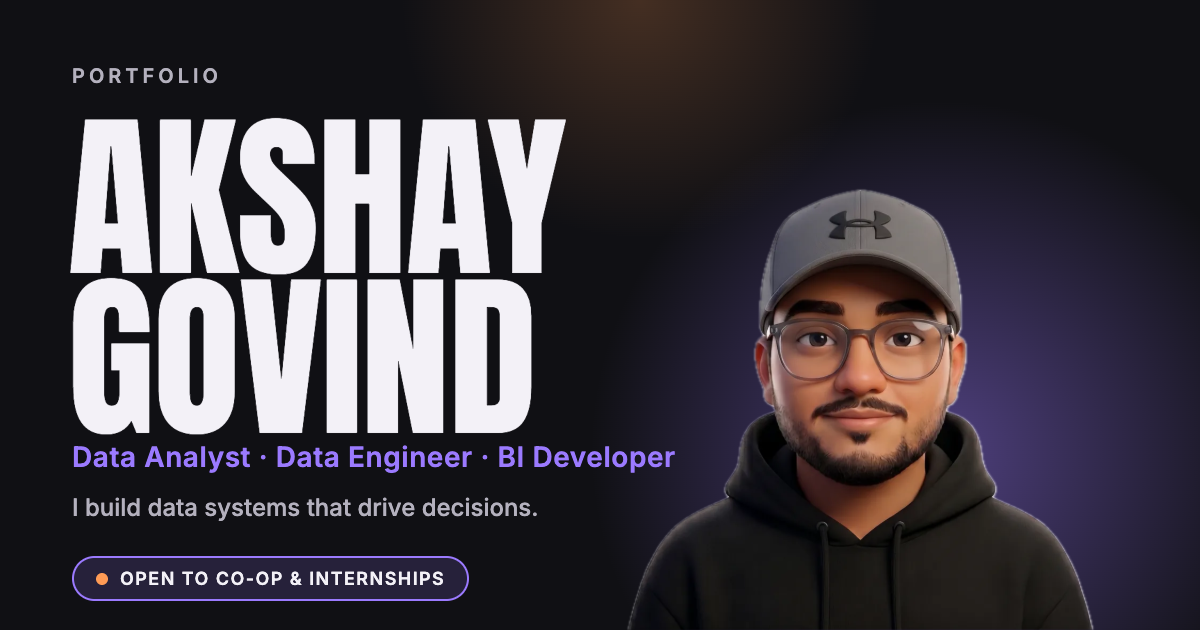
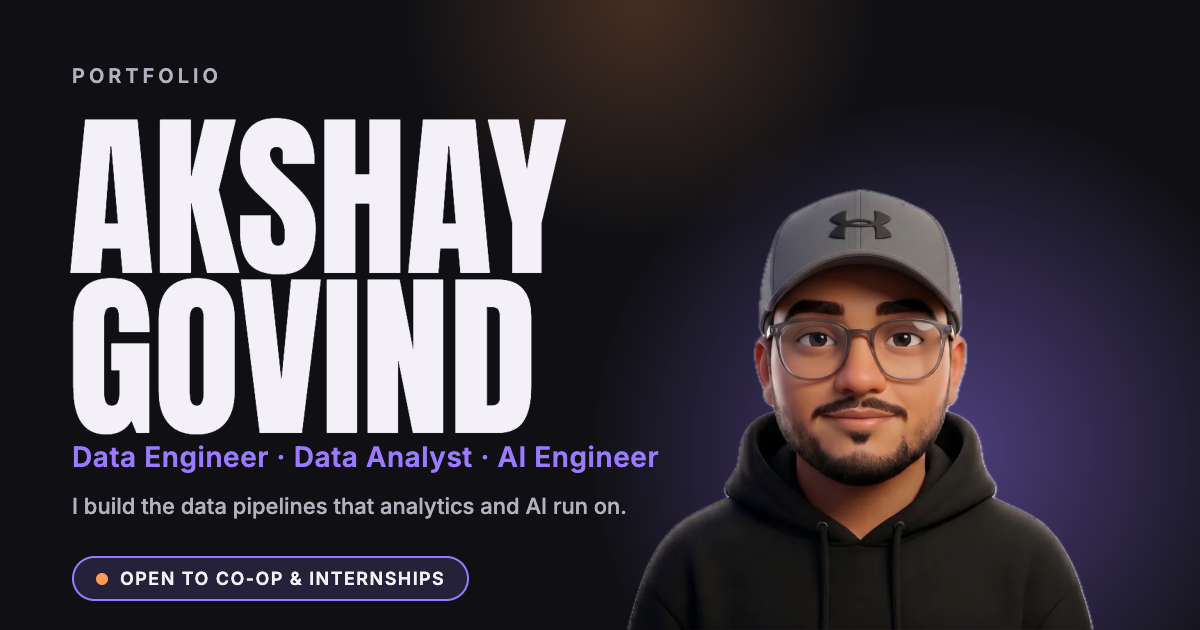
Positioning: Data Engineer, Data Analyst & AI Engineer
- New titles, description, hero roles/subheadline, og.png
- AI Engineering skills group; marquee, education coursework line
- JobPulse/FoodLens facts (verified in the repos)
- Contact: Copy email button, availability line (location until dates are set)
- Resume "Updated Nov 2026" note
- New About pitch and seeking line; phone hero spacing fixes

Changed region(s): [[0.1233, 0.6937, 0.555, 0.754], [0.0617, 0.7841, 0.5242, 0.8444]]

diff --git a/config/site.ts b/config/site.ts
@@ -48,14 +48,14 @@ export type SkillGroup = { category: string; skills: string[] };
 
 export const site = {
   name: "Akshay Govind",
-  title: "Data Analyst & Data Engineer",
+  title: "Data Engineer, Data Analyst & AI Engineer",
   /** Used for the meta description, Open Graph / Twitter cards and the web manifest. */
   description:
-    "Data Analyst & Data Engineer building data pipelines, SQL analytics and BI dashboards. MS Information Systems at Northeastern University, open to co-op and internship roles.",
+    "Data Engineer, Data Analyst & AI Engineer building the data pipelines analytics and AI run on. MS Information Systems at Northeastern, open to co-ops.",
   /** Theme colour for the browser UI, the web manifest and splash screens. */
   themeColor: "#101014",
   pitch:
-    "I build reliable data pipelines and clear analytics, from raw ingestion to dashboards that decision-makers trust.",
+    "I make messy data reliable enough for dashboards and for LLMs: tested, documented and monitored.",
 
   /** Badges in the scrolling tools marquee under the hero. */
   tools: [
@@ -69,13 +69,15 @@ export const site = {
     "dbt",
     "AWS S3",
     "PostgreSQL",
+    "OpenAI Agents SDK",
+    "LLM extraction",
   ],
 
   hero: {
     label: "AKSHAY GOVIND / PORTFOLIO",
     badge: "OPEN TO CO-OP & INTERNSHIPS",
-    subheadline: "I build data systems that drive decisions.",
-    roles: "Data Analyst · Data Engineer · BI Developer",
+    subheadline: "I build the data pipelines that analytics and AI run on.",
+    roles: "Data Engineer · Data Analyst · AI Engineer",
     credentials:
       "MS Information Systems @ Northeastern University · Dec\u00A02027 · 2+ yrs BI experience",
   },
@@ -114,6 +116,18 @@ export const site = {
     linkedin: "https://www.linkedin.com/in/akshaygovind06/",
     email: "govind.ak@northeastern.edu",
     resume: "/resume.pdf", // file lives at public/resume.pdf
+    /** Shown under the Download resume button (hidden if empty). The PDF was created 2026-11-17. */
+    resumeUpdated: "Nov 2026",
+  },
+
+  /**
+   * Availability line under the Contact heading: "<dates> · <location>".
+   * While `dates` is empty only the location shows ("Boston or remote"), so no placeholder
+   * ever appears on the site. Fill `dates` in when you have them, e.g. "Jan–Jun 2027".
+   */
+  availability: {
+    dates: "",
+    location: "Boston or remote",
   },
 
   about: {
@@ -124,6 +138,7 @@ export const site = {
         degree: "MS, Information Systems",
         school: "Northeastern University",
         when: "Expected Dec 2027",
+        coursework: "Theory and Practical Applications of AI Generative Modeling (CSYE 7380)",
       },
       {
         degree: "B.E., Computer Engineering",
@@ -132,7 +147,7 @@ export const site = {
       },
     ],
     experience: "2+ years as a Business Intelligence Analyst",
-    seeking: "Seeking Data Analyst / Data Engineer / BI co-op roles.",
+    seeking: "Seeking Data Engineer, Data Analyst and AI Engineer co-op roles.",
   },
 
   projects: [
@@ -141,7 +156,7 @@ export const site = {
       summary:
         "Unified 387K+ food inspection records from two structurally different city datasets using a Medallion architecture, data quality validation and Kimball dimensional modeling.",
       stats: [{ value: "1.18M", label: "fact violation rows" }],
-      facts: ["4 Power BI dashboards"],
+      facts: ["4 Power BI dashboards", "Idempotent Gold MERGE loads + quarantine table"],
       highlights: [
         {
           title: "Schema harmonization",
@@ -197,7 +212,11 @@ export const site = {
       title: "JobPulse",
       summary:
         "Daily pipeline ingesting postings from 38 employers (Greenhouse, Lever, Ashby) into S3 via Terraform + GitHub Actions, modeled with dbt on MotherDuck, with LLM extraction of job details.",
-      facts: ["38 employers · 50 dbt tests"],
+      facts: [
+        "38 employers · 50 dbt tests",
+        "LLM extraction at $0.39 per 1K postings",
+        "OIDC-secured Terraform + GitHub Actions",
+      ],
       inProgress: "visa evidence and resume matching",
       tags: ["Python", "AWS S3", "Terraform", "GitHub Actions", "dbt", "MotherDuck"],
       githubUrl: "https://github.com/akshaygovindd/jobpulse",
@@ -278,6 +297,19 @@ export const site = {
 
   skills: [
     {
+      // Each item is evidenced in the repos: JobPulse (LLM extraction with strict structured
+      // outputs, eval/ harness, versioned prompt) and emergency-response-agents (OpenAI Agents SDK).
+      category: "AI Engineering",
+      skills: [
+        "OpenAI Agents SDK",
+        "Multi-agent systems",
+        "LLM extraction",
+        "Structured outputs",
+        "LLM evaluation",
+        "Prompt engineering",
+      ],
+    },
+    {
       category: "Programming & SQL",
       skills: ["SQL", "Python", "PySpark", "PL/pgSQL", "Oracle SQL/PL-SQL (coursework)"],
     },
@@ -301,9 +333,6 @@ export const site = {
         "GridSearchCV",
         "Feature engineering",
         "LLMs",
-        "Prompt engineering",
-        "OpenAI Agents SDK",
-        "Multi-agent systems",
       ],
     },
     { category: "Tools", skills: ["Git", "GitHub", "GitHub Actions", "pytest", "Jira"] },

diff --git a/components/sections/Hero.tsx b/components/sections/Hero.tsx
@@ -58,7 +58,7 @@ export default function Hero() {
         aria-hidden="true"
         width={1200}
         height={897}
-        className="hero-static-avatar absolute -bottom-9 right-2 w-[60vw] max-w-[380px] sm:-bottom-[18px] sm:left-1/2 sm:right-auto sm:w-[86vw] sm:-translate-x-1/2 sm:max-w-[680px] lg:w-[54vw] lg:max-w-[840px]"
+        className="hero-static-avatar absolute -bottom-11 right-2 w-[56vw] max-w-[380px] sm:-bottom-[18px] sm:left-1/2 sm:right-auto sm:w-[86vw] sm:-translate-x-1/2 sm:max-w-[680px] lg:w-[54vw] lg:max-w-[840px]"
       />
 
       {/* Copy (left) and actions (right). Both start just below the headline's comma on desktop,
@@ -80,7 +80,7 @@ export default function Hero() {
 
         <div className="mt-6 lg:mt-0 lg:w-56">
           {/* Two primary actions */}
-          <div className="flex flex-wrap gap-3 lg:flex-col">
+          <div className="flex flex-wrap items-start gap-3 lg:flex-col lg:items-stretch">
             <a
               href="#projects"
               className="btn justify-center !border-transparent !bg-[#9B7AFF] !text-[#101014] hover:!brightness-110"
@@ -88,15 +88,22 @@ export default function Hero() {
               View my work
             </a>
             {links.resume && (
-              <TrackedLink
-                href={links.resume}
-                download
-                event="resume_download"
-                eventProps={{ location: "hero" }}
-                className="btn justify-center !border-ink-border !bg-transparent !text-ink-fg hover:!border-[#9B7AFF]"
-              >
-                <Download size={16} /> Download resume
-              </TrackedLink>
+              <div className="flex flex-col items-stretch gap-1.5">
+                <TrackedLink
+                  href={links.resume}
+                  download
+                  event="resume_download"
+                  eventProps={{ location: "hero" }}
+                  className="btn justify-center !border-ink-border !bg-transparent !text-ink-fg hover:!border-[#9B7AFF]"
+                >
+                  <Download size={16} /> Download resume
+                </TrackedLink>
+                {links.resumeUpdated && (
+                  <span className="text-center text-xs text-ink-muted">
+                    Updated {links.resumeUpdated}
+                  </span>
+                )}
+              </div>
             )}
           </div>
           {/* Small icon links */}

diff --git a/components/CopyEmailButton.tsx b/components/CopyEmailButton.tsx
@@ -1,0 +1,57 @@
+"use client";
+
+import { useEffect, useRef, useState } from "react";
+import { Check, Copy, X } from "lucide-react";
+
+type State = "idle" | "copied" | "failed";
+
+/** Copies the email address. Shows "Copied" for a moment (or "Copy failed"); announces it too. */
+export default function CopyEmailButton({ email }: { email: string }) {
+  const [state, setState] = useState<State>("idle");
+  const timer = useRef<ReturnType<typeof setTimeout> | undefined>(undefined);
+  useEffect(() => () => clearTimeout(timer.current), []);
+
+  async function copy() {
+    let ok = false;
+    try {
+      await navigator.clipboard.writeText(email);
+      ok = true;
+    } catch {
+      // Fallback for browsers/contexts where the async clipboard API is unavailable or denied
+      // The helper textarea takes focus while it copies; hand focus back afterwards so keyboard
+      // users stay on the button.
+      const previouslyFocused = document.activeElement as HTMLElement | null;
+      const ta = document.createElement("textarea");
+      ta.value = email;
+      ta.setAttribute("readonly", "");
+      ta.style.position = "fixed";
+      ta.style.opacity = "0";
+      document.body.appendChild(ta);
+      ta.select();
+      try {
+        ok = document.execCommand("copy");
+      } catch {
+        ok = false;
+      } finally {
+        document.body.removeChild(ta);
+        previouslyFocused?.focus({ preventScroll: true });
+      }
+    }
+    setState(ok ? "copied" : "failed");
+    clearTimeout(timer.current);
+    timer.current = setTimeout(() => setState("idle"), 2000);
+  }
+
+  return (
+    <>
+      <button type="button" onClick={copy} className="btn min-w-[9.5rem] justify-center">
+        {state === "copied" ? <Check size={16} /> : state === "failed" ? <X size={16} /> : <Copy size={16} />}
+        {state === "copied" ? "Copied" : state === "failed" ? "Copy failed" : "Copy email"}
+      </button>
+      {/* Screen readers hear the result; nothing visible */}
+      <span role="status" aria-live="polite" className="sr-only">
+        {state === "copied" ? "Email address copied to clipboard" : state === "failed" ? "Could not copy the email address" : ""}
+      </span>
+    </>
+  );
+}

diff --git a/components/sections/Contact.tsx b/components/sections/Contact.tsx
@@ -3,6 +3,8 @@ import { site } from "@/config/site";
 import ScrollTitle from "@/components/ScrollTitle";
 import FloatingShapes from "@/components/FloatingShapes";
 import TrackedLink from "@/components/TrackedLink";
+import CopyEmailButton from "@/components/CopyEmailButton";
+import { formatAvailability } from "@/lib/availability";
 
 /**
  * Flat panel (inverse palette) that continues the About panel above it: the two form one
@@ -10,7 +12,8 @@ import TrackedLink from "@/components/TrackedLink";
  * curtain of its own. Buttons for anything not set in config are hidden.
  */
 export default function Contact() {
-  const { links, about } = site;
+  const { links, about, availability } = site;
+  const availabilityLine = formatAvailability(availability);
   return (
     <section id="contact" className="panel panel-flat relative">
       <FloatingShapes
@@ -21,6 +24,9 @@ export default function Contact() {
       />
       <div className="section relative z-10 !pt-14 pb-24 sm:!pt-20 sm:pb-32">
         <ScrollTitle>Let&apos;s get in touch</ScrollTitle>
+        {availabilityLine && (
+          <p className="-mt-2 mb-5 font-mono text-sm text-accent">{availabilityLine}</p>
+        )}
         <p className="max-w-xl text-lg text-muted">
           {about.seeking} If you have an opportunity or just want to talk data, reach out.
         </p>
@@ -30,6 +36,7 @@ export default function Contact() {
               <Mail size={16} /> {links.email}
             </a>
           )}
+          {links.email && <CopyEmailButton email={links.email} />}
           {links.linkedin && (
             <a href={links.linkedin} target="_blank" rel="noopener noreferrer" className="btn">
               <Linkedin size={16} /> LinkedIn

diff --git a/components/Companion.tsx b/components/Companion.tsx
@@ -34,14 +34,14 @@ function geometry(): { hero: Geometry; corner: Geometry } {
   const vh = window.innerHeight;
   const phone = vw < 640;
   const tablet = vw >= 640 && vw < 1024; // hero copy is stacked above the avatar
-  const heroW = phone ? Math.min(vw * 0.6, 380) : tablet ? Math.min(vw * 0.86, 680) : Math.min(vw * 0.54, 840);
+  const heroW = phone ? Math.min(vw * 0.56, 380) : tablet ? Math.min(vw * 0.86, 680) : Math.min(vw * 0.54, 840);
   const cornerW = 160; // desktop/tablet only: phones hide the companion after the hero
   const margin = 16;
   return {
     // sink the avatar past the bottom edge (the bust is cropped there anyway): 18px on desktop and
-    // tablet so the hat overlaps the headline a little less, 36px on phones so the hat clears the icon row
+    // tablet so the hat overlaps the headline a little less, 44px on phones so the hat clears the icon row and the resume note
     // phones: avatar sits bottom-right so the left side stays free for the 44px buttons and icons
-    hero: { w: heroW, x: phone ? vw - heroW - 8 : (vw - heroW) / 2, y: vh - heroW * RATIO + (phone ? 36 : 18) },
+    hero: { w: heroW, x: phone ? vw - heroW - 8 : (vw - heroW) / 2, y: vh - heroW * RATIO + (phone ? 44 : 18) },
     corner: { w: cornerW, x: vw - cornerW - margin, y: vh - cornerW * RATIO - margin },
   };
 }

diff --git a/components/PersonJsonLd.tsx b/components/PersonJsonLd.tsx
@@ -1,9 +1,6 @@
 import { site } from "@/config/site";
 import { SITE_URL } from "@/lib/site-url";
 
-/** "Tableau (coursework)" -> "Tableau" */
-const cleanSkill = (s: string) => s.replace(/\s*\(coursework\)\s*$/i, "");
-
 /**
  * schema.org Person for search engines. Everything comes from config/site.ts (so it follows
  * later positioning changes) and the site URL from NEXT_PUBLIC_SITE_URL, nothing is hard-coded.
@@ -21,7 +18,8 @@ export function personJsonLd() {
       name: e.school,
     })),
     sameAs: [site.links.linkedin, site.links.github].filter(Boolean),
-    knowsAbout: [...new Set(site.skills.flatMap((g) => g.skills.map(cleanSkill)))],
+    // Labels such as "Tableau (coursework)" are kept, so the markup is as honest as the page.
+    knowsAbout: [...new Set(site.skills.flatMap((g) => g.skills))],
   };
 }
 

diff --git a/components/sections/About.tsx b/components/sections/About.tsx
@@ -29,6 +29,11 @@ export default function About() {
                   <p className="font-semibold">{e.degree}</p>
                   <p className="text-sm text-muted">{e.school}</p>
                   <p className="mt-1 font-mono text-xs text-accent">{e.when}</p>
+                  {e.coursework && (
+                    <p className="mt-2 text-sm leading-snug text-muted">
+                      <span className="font-medium text-fg">Relevant coursework:</span> {e.coursework}
+                    </p>
+                  )}
                 </li>
               ))}
             </ul>

diff --git a/lib/availability.ts b/lib/availability.ts
@@ -1,0 +1,10 @@
+/**
+ * The availability line under the Contact heading: "<dates> · <location>".
+ * With no dates it is just the location ("Boston or remote"); with neither it is empty (hidden).
+ */
+export function formatAvailability({ dates, location }: { dates: string; location: string }): string {
+  return [dates, location]
+    .map((part) => part.trim())
+    .filter(Boolean)
+    .join(" · ");
+}
